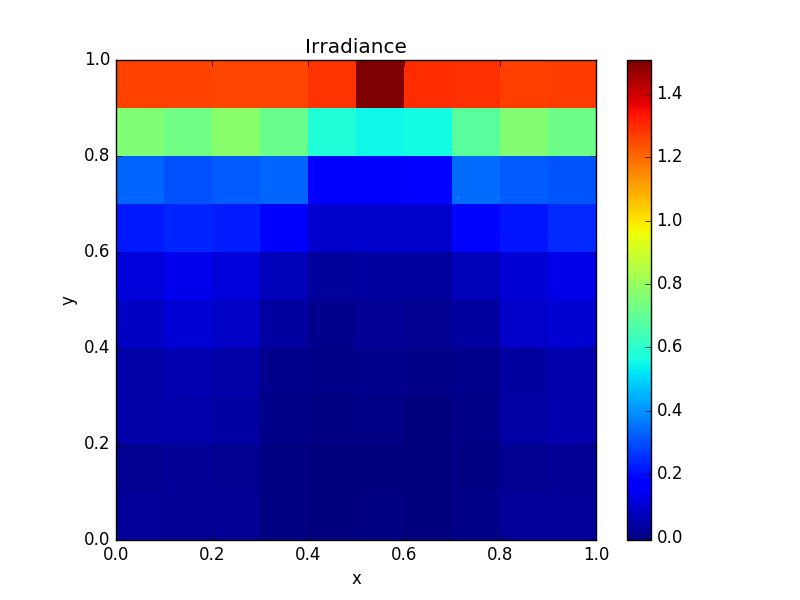
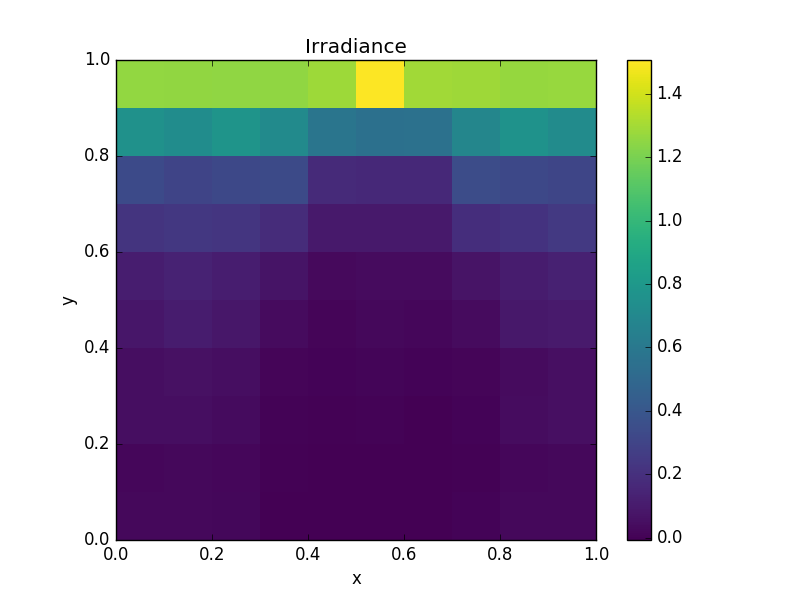
Use viridis colormap (perceptually uniform) for irradiance plots

diff --git a/gen_matrices/gen_matrix_2d.py b/gen_matrices/gen_matrix_2d.py
@@ -27,6 +27,7 @@
 import numpy as np
 import numpy.polynomial.legendre as leg
 import matplotlib.pyplot as plt
+from matplotlib import cm
 from scipy import sparse, misc, io
 import scipy.sparse
 import scipy.misc
@@ -395,7 +396,7 @@ class KelpScenario(object):
     def plot_irrad(self,imgfile=None):
         plt.clf()
         plt.imshow(self._irrad.T,extent=[0,1,0,1],
-                interpolation='none')
+                interpolation='none',cmap=cm.viridis)
         plt.xlabel('x')
         plt.ylabel('y')
         plt.title('Irradiance')

diff --git a/gen_matrices/conv_study.py b/gen_matrices/conv_study.py
@@ -66,9 +66,9 @@ rs_ref = 2
 ra_ref = 2
 
 # Number of spatial grid trials
-nsg = 3
+nsg = 2
 # Number of angular grid trials
-nag = 3
+nag = 2
 
 # Minimum & Maximum grid size
 # Spatial
